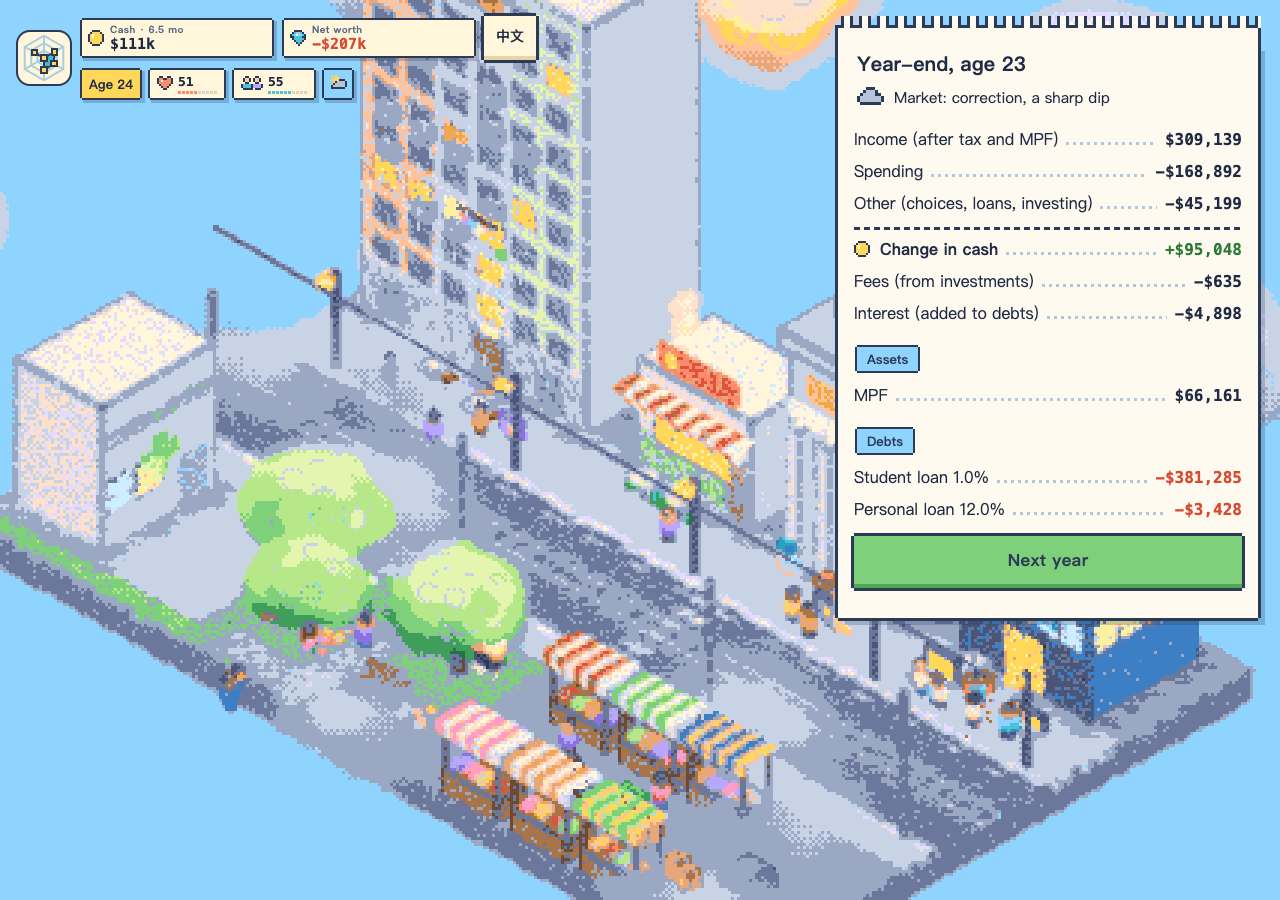
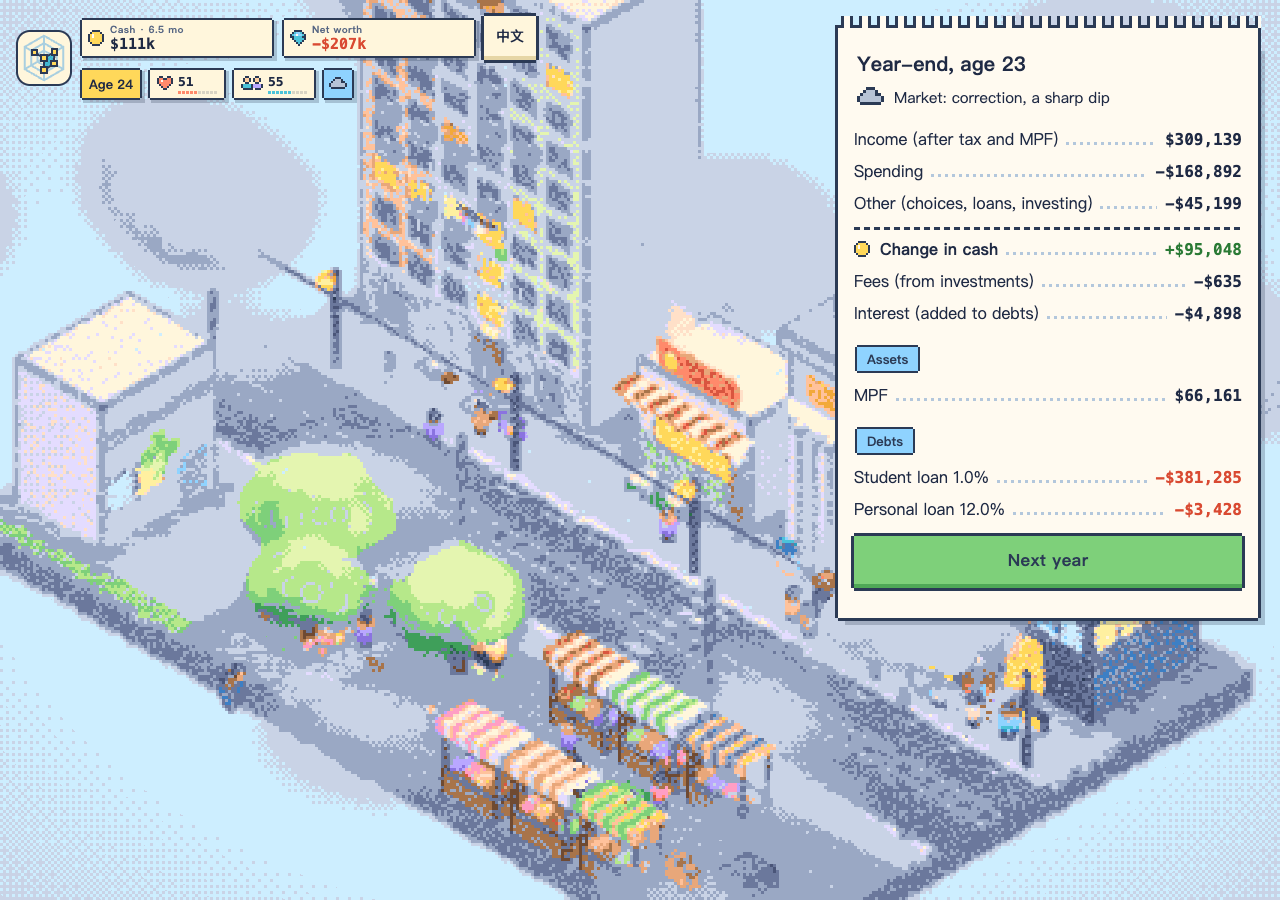
fix: hide this year's market weather until the year-end; HUD hexagon panel

diff --git a/tests/session.test.ts b/tests/session.test.ts
@@ -2,7 +2,8 @@ import { describe, expect, it } from 'vitest';
 import { ALL_EVENTS } from '../src/data/events';
 import { availableChoices } from '../src/engine/events';
 import { newGame } from '../src/engine/sim';
-import { MINI_COOLDOWN, SPOT_FOR_CATEGORY, pickMiniGame, walkTarget, type MiniContext } from '../src/ui/flow';
+import { regimeForTurn, yearIndex } from '../src/engine/market';
+import { MINI_COOLDOWN, SPOT_FOR_CATEGORY, pickMiniGame, shownRegime, walkTarget, type MiniContext } from '../src/ui/flow';
 import { advance, afterSummary, applyMiniScore, beginTurn, choose, currentEvent, rememberMini, startSession, withMiniBonus, type Session } from '../src/ui/session';
 import { resolveWithMini } from '../src/ui/director/choice';
 import { qualities } from '../src/world3d/qualities';
@@ -112,3 +113,17 @@ function firstChoice(s: Session): Session {
   return choose(s, availableChoices(s.state, currentEvent(s.screen.card))[0].id);
 }
 
+
+describe('market weather spoiler', () => {
+  it('shows last year\'s regime, never the current one, and the same one all year', () => {
+    const s = newGame(5);
+    expect(shownRegime({ ...s, turn: 0 })).toBe('normal');
+    expect(shownRegime({ ...s, turn: 1 })).toBe('normal');
+    for (let turn = 2; turn < 30; turn += 1) {
+      const y = yearIndex(turn);
+      const prevYearTurn = [...Array(turn).keys()].reverse().find((x) => yearIndex(x) === y - 1) as number;
+      expect(shownRegime({ ...s, turn })).toBe(regimeForTurn(s.market, prevYearTurn));
+      if (yearIndex(turn - 1) === y) expect(shownRegime({ ...s, turn })).toBe(shownRegime({ ...s, turn: turn - 1 }));
+    }
+  });
+});

diff --git a/src/ui/App.tsx b/src/ui/App.tsx
@@ -1,7 +1,6 @@
 import { useEffect, useMemo, useRef, useState } from 'react';
 import type { Lang } from '../i18n';
 import type { StageApi } from '../world3d/contracts';
-import { StatsTape } from './components/StatsTape';
 import { resolveWithMini } from './director/choice';
 import { useCutscenes } from './director/useCutscenes';
 import { isFasting, useFast } from './director/useFast';
@@ -94,15 +93,9 @@ export function App() {
   return (
     <I18nProvider value={i18n}>
       {is3d && <WorldBackdrop state={session?.state ?? null} lang={lang} onStage={setStage} />}
-      {is3d && !cutting && <Hud state={playing?.state} hexSlot={playing && <HexButton session={playing} />} onLang={toggleLang} />}
+      {!cutting && <Hud state={playing?.state} hexSlot={playing && <HexButton session={playing} />} onLang={toggleLang} />}
       {walk.spot && <WalkPrompt spot={walk.spot} onSkip={walk.skip} />}
       <div className="ml-app">
-        {!is3d && (
-          <div className="ml-app__bar">
-            <button type="button" className="ml-lang" data-testid="lang" onClick={toggleLang}>{i18n.t('app.lang')}</button>
-          </div>
-        )}
-        {!is3d && playing && <StatsTape state={playing.state} />}
         <main className="ml-stage" key={slipKey} data-slip={slipKey} ref={stageRef} tabIndex={-1} hidden={away}>
           {!away && screen.kind === 'start' && <StartScreen seed={seed} onStart={() => setSession(startSession(seed))} />}
           {!away && session && screen.kind === 'intro' && <IntroScreen state={session.state} onGo={() => setSession(beginTurn(session))} />}

diff --git a/src/ui/flow.ts b/src/ui/flow.ts
@@ -1,6 +1,7 @@
-import type { Category, Choice, GameEvent, Regime } from '../engine/types';
+import { regimeForTurn, yearIndex } from '../engine/market';
+import type { Category, Choice, GameEvent, GameState, Regime } from '../engine/types';
 import type { SpotId } from '../world3d/contracts';
-import type { Scope } from '../world3d/descriptor';
+import { worldFor, type Scope, type WorldDescriptor } from '../world3d/descriptor';
 import type { MiniGameId } from './minigames/types';
 
 /** Where in the neighbourhood each kind of decision happens. */
@@ -36,4 +37,21 @@ export function pickMiniGame(c: MiniContext): MiniGameId | null {
   if (COMPARE_IDS.some((k) => c.event.id.includes(k)) && cooled(c, 'compare')) return 'compare';
   if (c.event.category === 'daily' && (tags.includes('save') || tags.includes('spend')) && cooled(c, 'budget')) return 'budget';
   return null;
+}
+
+/**
+ * The market weather the player may see: last year's. This year's regime is only revealed by the year-end receipt,
+ * so neither the HUD nor the world gives away a crash before the player has decided.
+ */
+export function shownRegime(s: GameState): Regime {
+  const year = yearIndex(s.turn);
+  if (year <= 0) return 'normal';
+  let t = s.turn - 1;
+  while (t > 0 && yearIndex(t) >= year) t -= 1;
+  return regimeForTurn(s.market, t); // t < s.turn, so it is always inside the market's range
+}
+
+/** What the 3D world is built from: the life so far, under last year's weather. */
+export function worldView(s: GameState): WorldDescriptor {
+  return { ...worldFor(s), regime: shownRegime(s) };
 }

diff --git a/src/ui/WorldBackdrop.tsx b/src/ui/WorldBackdrop.tsx
@@ -3,8 +3,8 @@ import { newGame } from '../engine/sim';
 import type { GameState } from '../engine/types';
 import { translate, type Lang } from '../i18n';
 import type { StageApi } from '../world3d/contracts';
-import { worldFor } from '../world3d/descriptor';
 import { createStage } from '../world3d/stage';
+import { worldView } from './flow';
 import './world.css';
 
 let stub: GameState | null = null;
@@ -27,7 +27,7 @@ export function WorldBackdrop({ state, lang, onStage }: Props) {
     if (!el) return undefined;
     let made: StageApi;
     try {
-      made = createStage(el, worldFor(latest.current.state ?? preview()), seed, { lang: latest.current.lang });
+      made = createStage(el, worldView(latest.current.state ?? preview()), seed, { lang: latest.current.lang });
     } catch {
       setFailed(true); // no WebGL2 (or the context failed): the game still plays, on the plain backdrop
       return undefined;
@@ -44,7 +44,7 @@ export function WorldBackdrop({ state, lang, onStage }: Props) {
     };
   }, [seed, onStage]);
 
-  useEffect(() => { stage?.setWorld(worldFor(state ?? preview())); }, [stage, state]);
+  useEffect(() => { stage?.setWorld(worldView(state ?? preview())); }, [stage, state]);
 
   useEffect(() => {
     host.current?.querySelector('.ml-stage-joy')?.setAttribute('aria-label', translate(lang, 'stage.joy.label'));

diff --git a/src/ui/hud/Hud.tsx b/src/ui/hud/Hud.tsx
@@ -1,11 +1,11 @@
 import { useEffect, useRef, type ReactNode } from 'react';
 import { runway, netWorth } from '../../engine/finance';
-import { regimeForTurn } from '../../engine/market';
 import type { GameState } from '../../engine/types';
 import { PixelIcon } from '../components/PixelIcon';
 import { ICONS, type Sprite } from '../components/sprites';
 import { WEATHER } from '../components/weather';
 import { ageLabel, money } from '../format';
+import { shownRegime } from '../flow';
 import { useI18n } from '../i18nContext';
 import './hud.css';
 
@@ -59,7 +59,7 @@ export function Hud({ state, hexSlot, onLang }: { state?: GameState | null; hexS
   const { t, lang } = useI18n();
   if (!state) return onLang ? <div className="ml-hud ml-hud--bare"><LangButton onLang={onLang} /></div> : null;
   const rw = runway(state);
-  const regime = regimeForTurn(state.market, Math.min(state.turn, state.market.levels.cash.length - 1));
+  const regime = shownRegime(state); // last year's weather: this year's is a spoiler until the year-end receipt
   const weather = t(`hud.weather.${regime}`);
   return (
     <header className={`ml-hud${onLang ? '' : ' ml-hud--nolang'}`} aria-label={t('tape.label')}>
